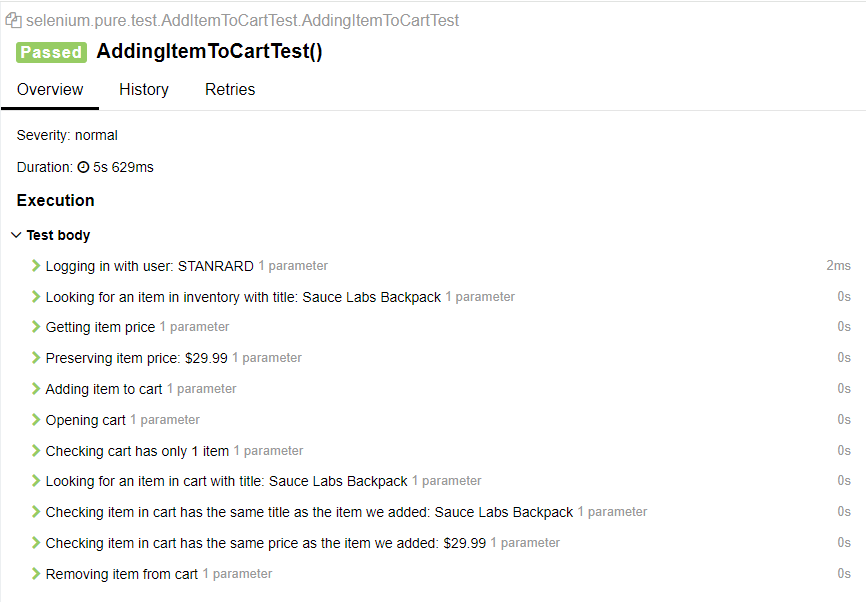
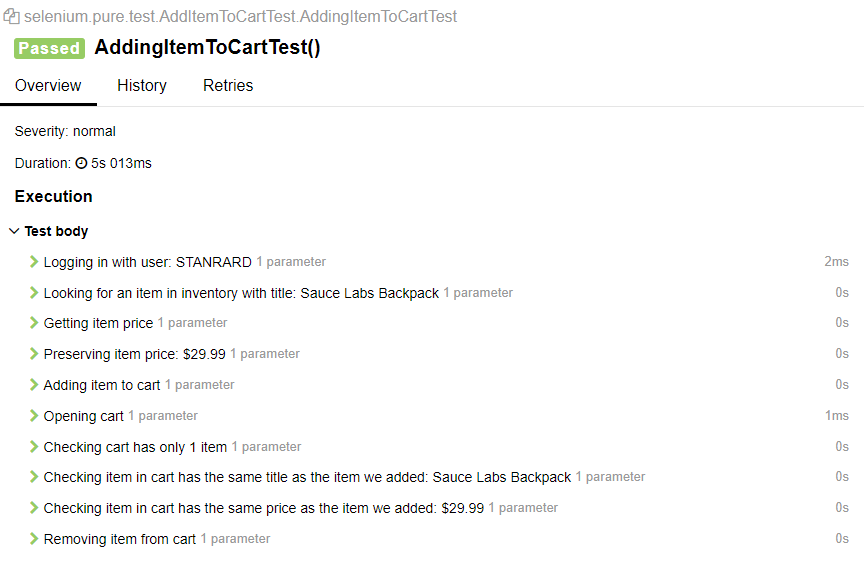
Allure report demo fixed

diff --git a/src/test/java/selenium/pure/test/AddItemToCartTest.java b/src/test/java/selenium/pure/test/AddItemToCartTest.java
@@ -53,10 +53,8 @@ public class AddItemToCartTest extends BaseTestClass {
         logStep("Checking cart has only 1 item");
         assertEquals(1, cartPage.getCartItemListSize());
 
-        logStep("Looking for an item in cart with title: " + itemTitle);
-        cartItemElement = getCartItemByTitle(cartPage, itemTitle);
-
         logStep("Checking item in cart has the same title as the item we added: " + itemTitle);
+        cartItemElement = getCartItemByTitle(cartPage, itemTitle);
         assertEquals(cartItemElement.getCartItemTitle(), itemTitle);
 
         logStep("Checking item in cart has the same price as the item we added: " + itemPrice);
